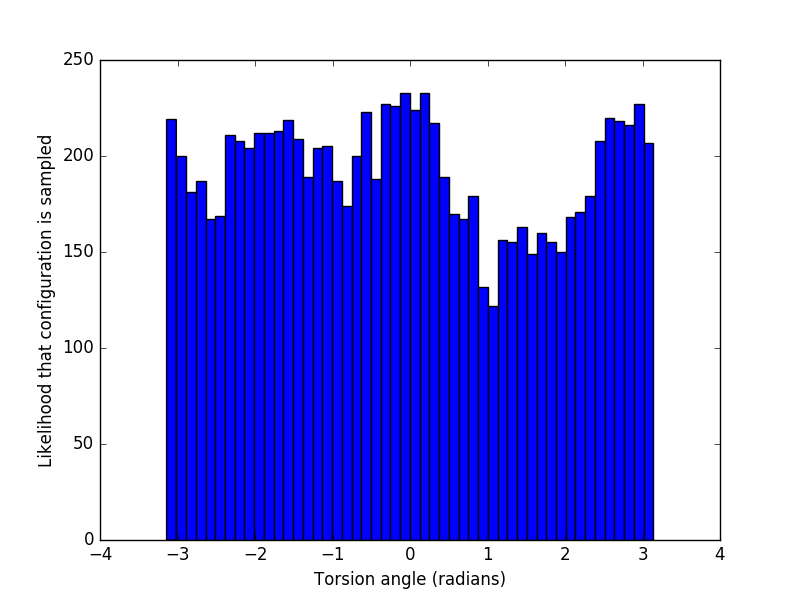
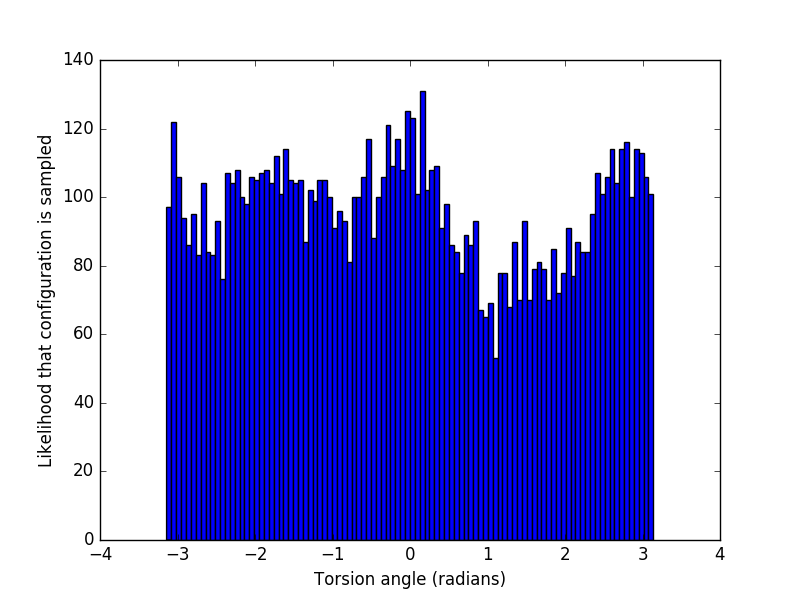
tors dist c581

diff --git a/single-molecule-property-generation/least_squares_fit_example.py b/single-molecule-property-generation/least_squares_fit_example.py
@@ -415,7 +415,7 @@ plt.show()
 
 plt.savefig("some figure.png")
 
-num_bins = 50
+num_bins = 100
 
 plt.figure()
 plt.hist(torsion, num_bins)
